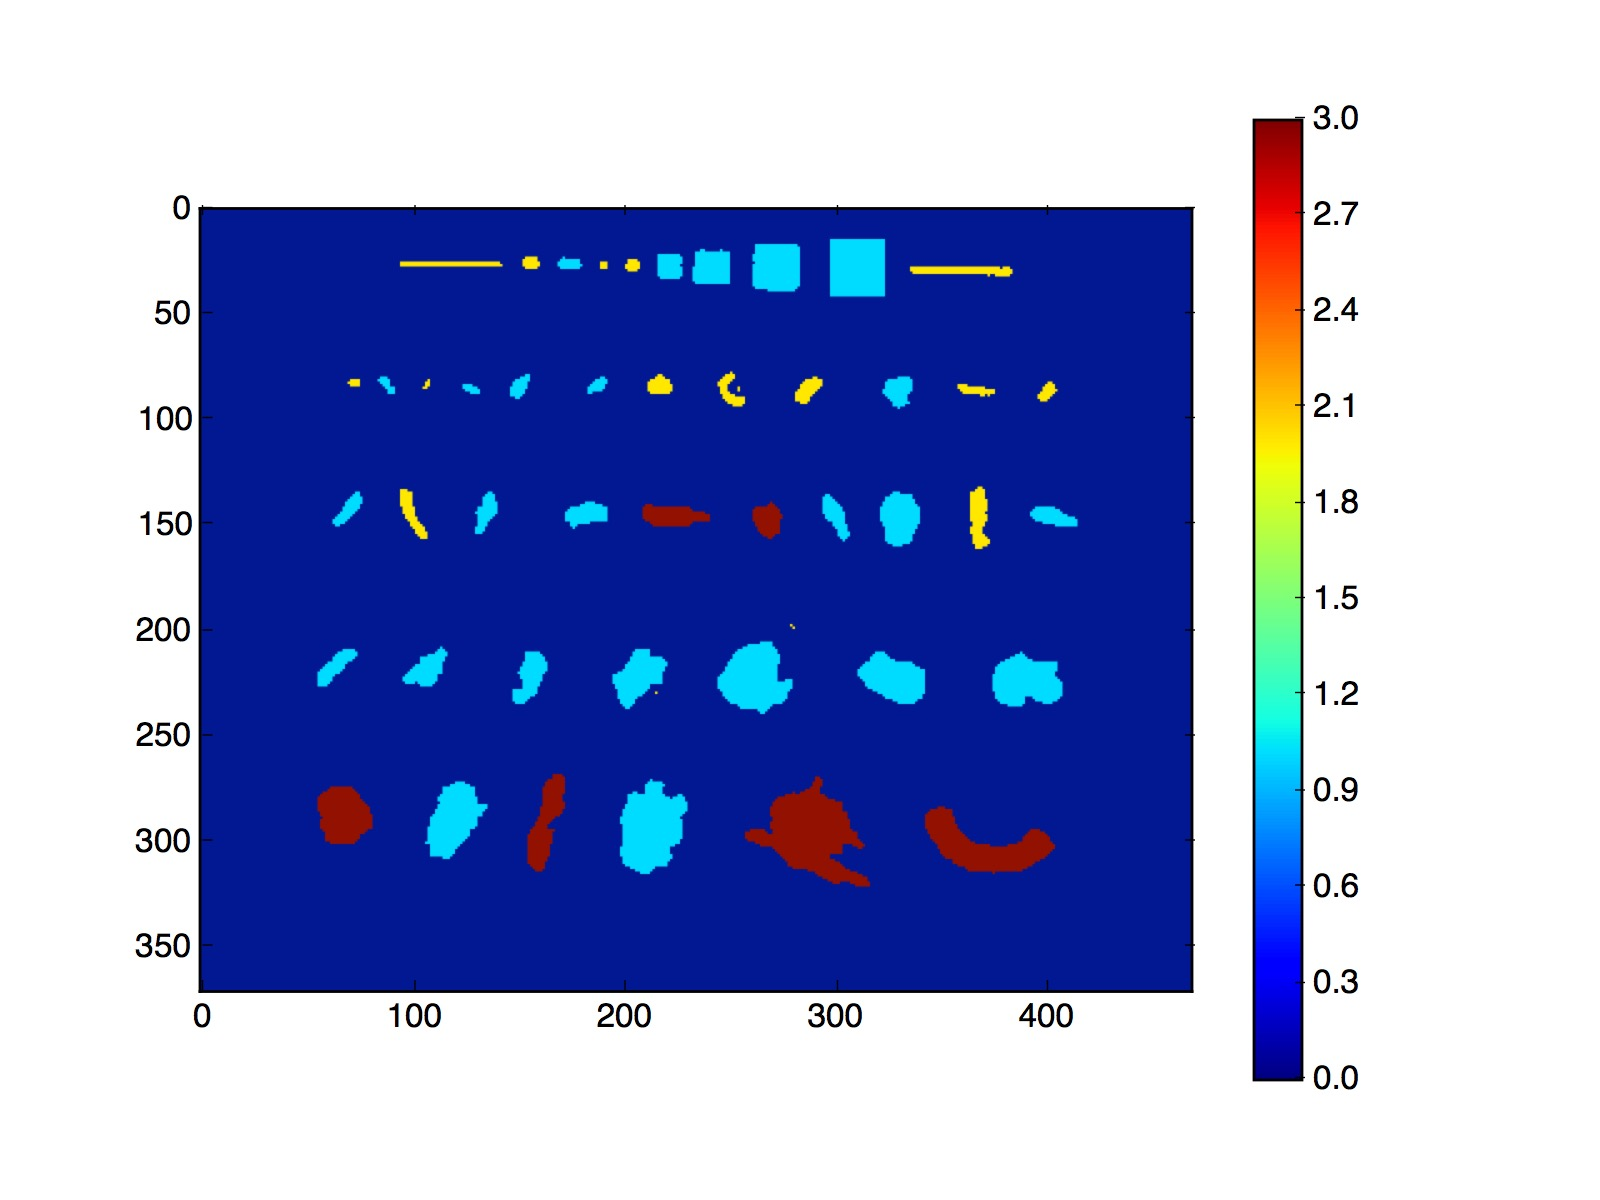
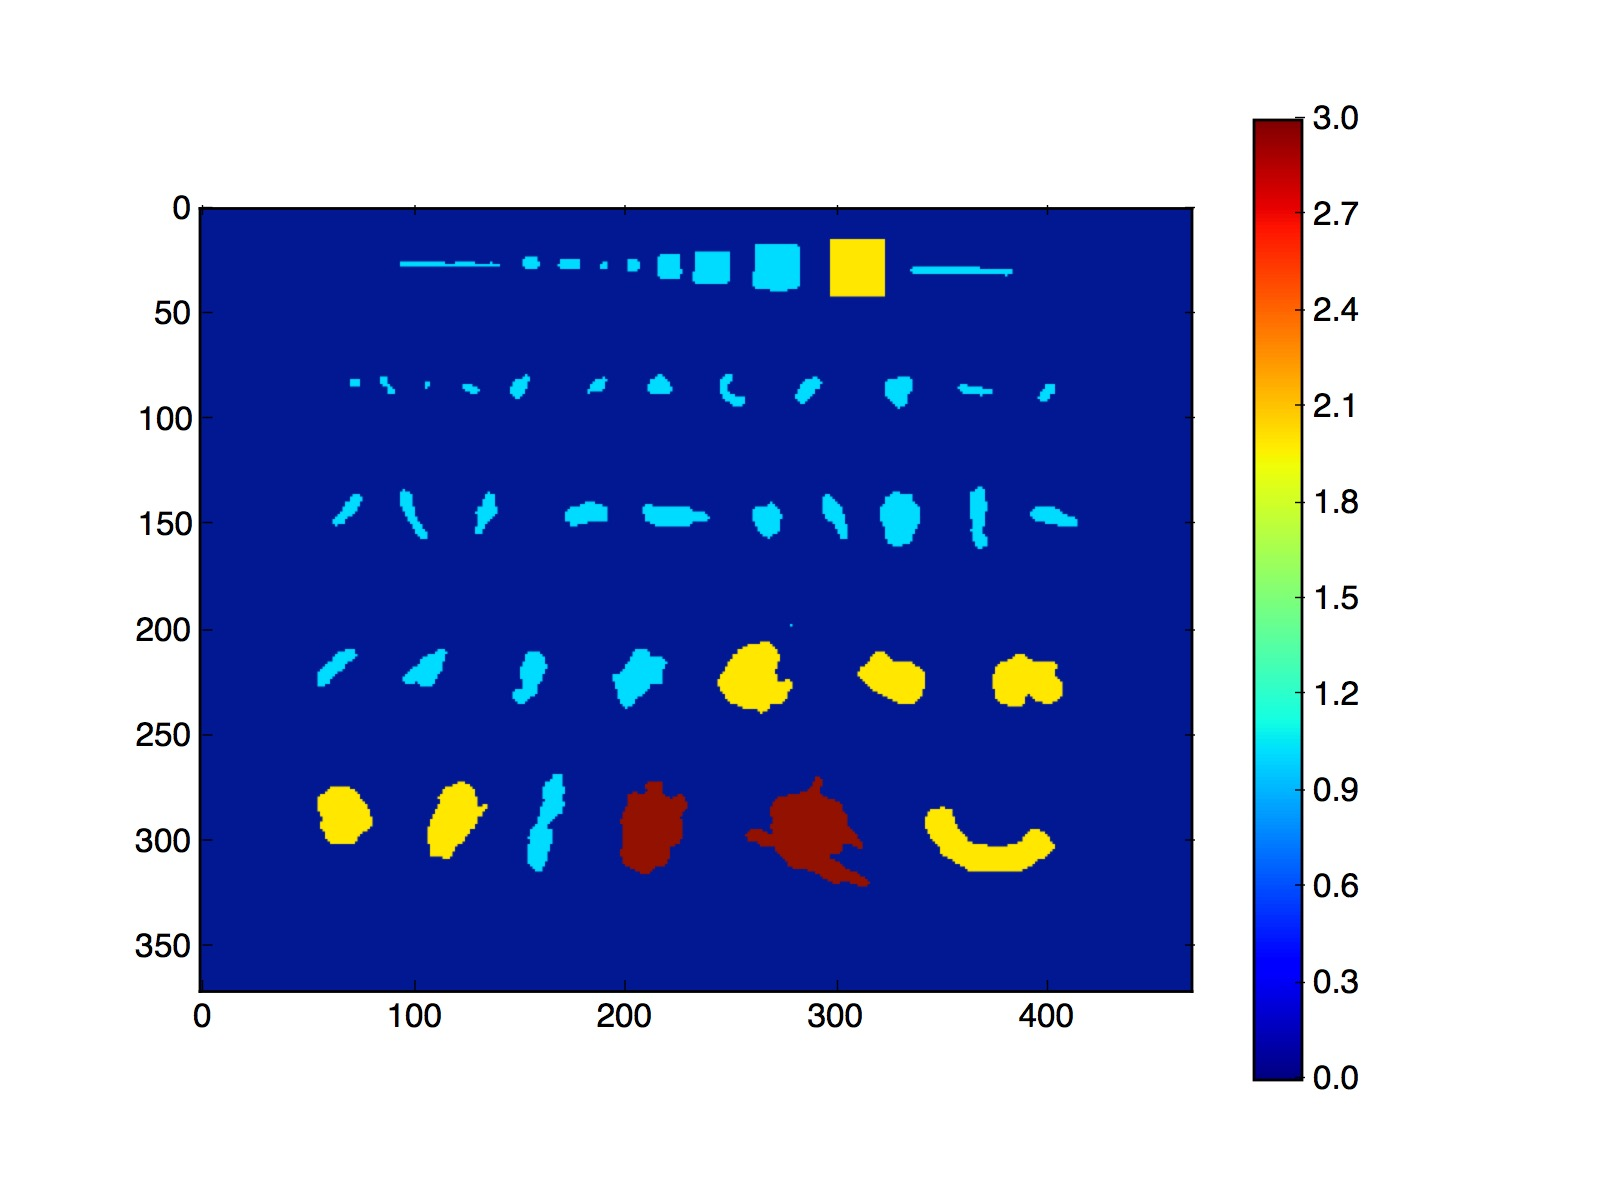
Rewrote the classification algorithm as well as a few other minor tweaks.

diff --git a/project1/object_detection.py b/project1/object_detection.py
@@ -8,9 +8,8 @@ image is iterated over using 8-connectivity to identify unique objects
 and each object is marked with a unique value.  Once marked, various
 statistics such as area and perimeter are calculated for each object.
 Each object is then classified into one of three categories based on
-these statistics: (1) circular object (value=1), (2) line-like object
-(value=2), and miscellanous object (value=3).  Intermediate and final
-images and results are saved to the working directory.
+these statistics: (1) small, (2) medium, and (3) large.  Intermediate
+and final images and results are saved to the working directory.
 
 Authors:
     Matthew Bourque, October 2016
@@ -56,10 +55,10 @@ warnings.filterwarnings("ignore")
 
 # -----------------------------------------------------------------------------
 
-def classify_object(data_dict):
-    """Classify each object into one of three categories: (1) circular
-    objects (value=1), line-like objects (value=2), and miscellanous
-    objects (value=3).
+def classify_objects(data_table):
+    """Classify each object into one of three categories (small,
+    medium, or large) based on the object's area, and update the data
+    table with the result.
 
     Parameters
     ----------
@@ -67,29 +66,17 @@ def classify_object(data_dict):
         A dictionary whose keys are the object statistics (e.g. Area,
         Perimeter, etc.) and whose values are the values for those
         statistics.
-
-    Returns
-    -------
-    classification : int
-        The classification for the object.  1 is for circular objects,
-        2 is for line-like objects, 3 is for oddly shaped,
-        miscellanous objects.
     """
 
-    # Circles have cirulatiry close to 1
-    if 0.8 <= data_dict['Circularity'] <= 1.2:
-        classification = 1
+    max_area = max(data_table['Area'])
 
-    # Lines have relatively large perimeter and are non-circular
-    elif data_dict['Perimeter'] / float(data_dict['Area']) > 0.3 \
-    and (data_dict['Circularity'] < 0.8 or data_dict['Circularity'] > 1.2):
-        classification = 2
-
-    # Misc objects is everything else
-    else:
-        classification = 3
-
-    return classification
+    for obj in data_table:
+        if obj['Area'] <= (max_area / 3.):
+            obj['Classification'] = 'Small'
+        elif (max_area / 3.) < obj['Area'] < (2 * max_area / 3.):
+            obj['Classification'] = 'Medium'
+        else:
+            obj['Classification'] = 'Large'
 
 # -----------------------------------------------------------------------------
 
@@ -133,7 +120,7 @@ def find_circularity(area, perimeter):
     """
 
     circularity = 4 * np.pi * (area / float(perimeter)**2)
-    circularity = round(circularity, 3)
+    circularity = int(round(circularity*100, 0))
 
     return circularity
 
@@ -162,7 +149,7 @@ def find_diameter(area):
 
 def find_perimeter(image, object_number):
     """Return the perimeter of the object.  The perimeter in this case
-    is defined as the number of pixels that have a '0' as a 4-connected
+    is defined as the number of pixels that have a '0' as a 8-connected
     neighbor (i.e. doesn't have a neighboring pixel that is part of the
     object itself).
 
@@ -188,8 +175,11 @@ def find_perimeter(image, object_number):
 
             if image[row,col] == object_number:
 
-                # Check to see if nieghbors contain 0
-                neighbors = [image[row-1,col], image[row,col+1], image[row+1,col], image[row,col-1]]
+                # Check to see if an 8-connected nieghbor contains a 1
+                neighbors = [
+                    image[row-1,col-1], image[row-1,col], image[row-1,col+1],
+                    image[row,col-1], image[row,col], image[row,col+1],
+                    image[row+1,col-1], image[row+1,col], image[row+1,col+1]]
                 if 1 in neighbors:
                     perimeter += 1
 
@@ -197,7 +187,7 @@ def find_perimeter(image, object_number):
 
 # -----------------------------------------------------------------------------
 
-def mark_image(image):
+def mark_image(image, data_table):
     """Mark each object in the image with a unique value.
 
     Since the object pixels have a value of 0 and the 'background'
@@ -205,10 +195,15 @@ def mark_image(image):
     starts with 2 (as to distinguish it from the background and other
     objects) and increases by 1 for each unique object.
 
+    During this function, the data_table is also updated with the
+    object number and its (first found) position.
+
     Parameters
     ----------
     image : 2D array
         The image in which the objects reside.
+    data_table : table
+        A table that is to hold results.
     """
 
     print '\tMarking objects'
@@ -226,6 +221,10 @@ def mark_image(image):
 
                 # Mark the pixel
                 image[row,col] = value
+
+                # Update the data table with object number and position
+                data_dict = {'Object' : value - 1, 'Position' : (row,col)}
+                data_table.add_row(data_dict)
 
                 # Sweep right and down
                 for row in range(0,nrows):
@@ -258,7 +257,6 @@ def mark_image(image):
 
                 value += 1
 
-
 # -----------------------------------------------------------------------------
 # -----------------------------------------------------------------------------
 
@@ -276,7 +274,7 @@ if __name__ == '__main__':
     plt.savefig('test_hist.jpg')
 
     # Binary threshold the image
-    threshold = 185
+    threshold = 175
     print '\tApplying binary threshold with value {}'.format(threshold)
     image[np.where(image < threshold)] = 0
     image[np.where(image >= threshold)] = 1
@@ -288,8 +286,13 @@ if __name__ == '__main__':
     plt.savefig('test_threshold.jpg')
     print '\tBinary threshold image saved to test_treshold.jpg'
 
+    # Initialize a data table that will hold results
+    data_table = Table(
+        names=['Object', 'Position', 'Area', 'Diameter', 'Perimeter', 'Circularity', 'Classification'],
+        dtype=[int, tuple, int, int, int, int, str])
+
     # Mark the objects
-    mark_image(image)
+    mark_image(image, data_table)
 
     # Save the marked image
     fig = plt.figure()
@@ -299,32 +302,37 @@ if __name__ == '__main__':
     print '\tMarked image saved to test_marked.jpg'
 
     # The number of marked objects is the maximum value - 2
-    num_objects = np.max(image) - 2
+    num_objects = np.max(image) - 1
     print '\n\tThe number of objects found is {}\n'.format(num_objects)
 
-    # Build table of statistics
-    data_table = Table(
-        names=['Object', 'Area', 'Diameter', 'Perimeter', 'Circularity', 'Classification'],
-        dtype=[int, int, int, int, float, int])
-    for object_number in range(2, num_objects+3):
-        data_dict = {}
-        data_dict['Object'] = object_number
-        data_dict['Area'] = find_area(image, object_number)
-        data_dict['Diameter'] = find_diameter(data_dict['Area'])
-        data_dict['Perimeter'] = find_perimeter(image, object_number)
-        data_dict['Circularity'] = find_circularity(data_dict['Area'], data_dict['Perimeter'])
-        data_dict['Classification'] = classify_object(data_dict)
-        data_table.add_row(data_dict)
-    print '\nResults:\n\n{}'.format(data_table)
-    data_table.write('results.dat', format='ascii')
-    print '\n\tResults file written to results.dat'
+    # Update the data table with statistics
+    for object_number in range(2, num_objects+2):
+        data_table[object_number-2]['Area'] = find_area(image, object_number)
+        data_table[object_number-2]['Diameter'] = find_diameter(data_table[object_number-2]['Area'])
+        data_table[object_number-2]['Perimeter'] = find_perimeter(image, object_number)
+        data_table[object_number-2]['Circularity'] = find_circularity(data_table[object_number-2]['Area'], data_table[object_number-2]['Perimeter'])
+
+    # Classify each object
+    print '\tClassifying objects'
+    classify_objects(data_table)
 
     # Make image of classified objects
     classified_image = np.copy(image)
     classified_image[classified_image == 1] = 0
     for entry in data_table:
-        obj = np.where(classified_image == entry['Object'])
-        classified_image[obj] = entry['Classification']
+        obj = np.where(classified_image == entry['Object'] + 1)
+        if entry['Classification'] == 'S':
+            classification_value = 1
+        elif entry['Classification'] == 'M':
+            classification_value = 2
+        else:
+            classification_value = 3
+        classified_image[obj] = classification_value
+
+    # Print out report of results
+    print '\nResults:\n\n{}'.format(data_table)
+    data_table.write('results.dat', format='ascii')
+    print '\n\tResults file written to results.dat'
 
     # Make plot showing classified objects
     fig = plt.figure()
